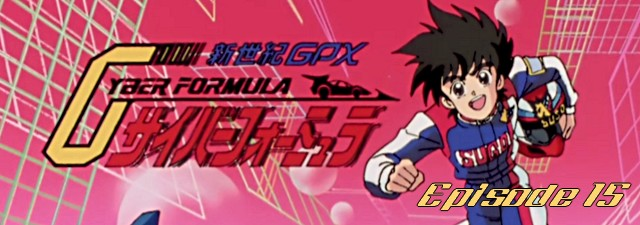
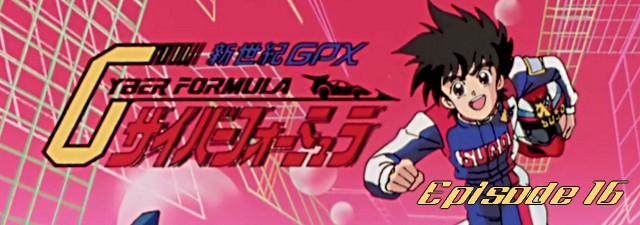
new release

Changed region(s): [[0.625, 0.7778, 1.0, 0.9644]]

diff --git a/2015-11-15.html b/2015-11-15.html
@@ -1,0 +1,100 @@
+<!DOCTYPE html>
+<html lang="fr-FR">
+	<head>
+		<title>Future GPX Cyber Formula BD 16 vostfr | Nobluesky Fansub</title>
+		<meta charset="utf-8" />
+		<link rel="Shortcut Icon" type="image/x-icon" href="favicon.ico" />
+		<link href="fonts/fonts.css" rel="stylesheet" type="text/css" />
+		<link href="style.css" rel="stylesheet" type="text/css" media="screen" />
+		<link rel="stylesheet" href="menu.css" type="text/css" />
+		<script src="jquery.js" type="text/javascript"></script>
+		<script src="background-script.js" type="text/javascript"></script>
+	</head>
+<body>
+<div class="banner">
+	<a title="Nobluesky Fansub" href="index.html"> <img class="banner" alt="Nobluesky Fansub" title="Nobluesky Fansub" src="images/banner.png"/> </a>
+</div>
+<!-- end banner -->
+<div id="menu-wrapper">
+	<div id="menu">
+		<script type="text/javascript">
+		$( '#menu' ).load( 'menu.html' );
+		</script>
+		<noscript>Activez javascript pour voir le menu!</noscript>
+	</div>
+</div>
+<!-- end #menu -->
+<div id="page-wrapper">
+<div id="sidebar-wrapper">
+	<div id="sidebar">
+		<script type="text/javascript">
+		$( '#sidebar' ).load( 'sidebar.html' );
+		</script>
+	</div>
+	<!-- end #sidebar -->
+</div>
+	<div id="article">
+		<div id="content">
+			<div class="post">
+				<h1 class="title">Future GPX Cyber Formula BD 16 vostfr</h1>
+				<p class="meta"><span class="date">15 Novembre 2015</span><span class="posted">Posté par <a href="about.html#nobluesky">Nobluesky</a></span></p>
+				<div style="clear: both;">&nbsp;</div>
+				<div class="entry">
+					<img class="post-images" src="images/2015/news17.jpg" alt="" />
+					<p>Bonsoir,</p>
+					<p>Pour vous changer les idées, voici la suite tant attendue de la course du Pérou, avec un enjeu potentiellement dramatique s'il n'est pas atteint!</p>
+					<p>Bon épisode.</p>
+					<h3>Téléchargements et streaming</h3>
+					<p class="links dl"><a href="http://jheberg.net/captcha/fgpxcf-16-vostfr-bd/" class="button-dl">Jheberg</a></p>&nbsp; | &nbsp;
+					<p class="links dl"><a href="http://rutube.ru/video/d4abf518625ff6070096157c32236dfd/" class="button-dl">Rutube</a></p>&nbsp; | &nbsp;
+					<p class="links dl"><a href="https://mega.nz/#!XcMVFABD!lKXfUW4mniOpGrDX33H02eNsnG1Ia08nIHQIHNhdrvc" class="button-dl">Mega</a></p>
+					<h3>Commentaires</h3>
+					<div id="disqus_thread"></div>
+					<script type="text/javascript">
+						/* * * CONFIGURATION VARIABLES: EDIT BEFORE PASTING INTO YOUR WEBPAGE * * */
+						var disqus_shortname = 'noblueskyfansub'; // required: replace example with your forum shortname
+
+						/* * * DON'T EDIT BELOW THIS LINE * * */
+						(function() {
+							var dsq = document.createElement('script'); dsq.type = 'text/javascript'; dsq.async = true;
+							dsq.src = '//' + disqus_shortname + '.disqus.com/embed.js';
+							(document.getElementsByTagName('head')[0] || document.getElementsByTagName('body')[0]).appendChild(dsq);
+						})();
+					</script>
+					<noscript>Activez javascript pour voir les commentaires.</noscript>
+					<a href="http://disqus.com" class="dsq-brlink">commentaires propulsés par <span class="logo-disqus">Disqus</span></a>
+				</div>
+			</div>
+			<div style="clear: both;">&nbsp;</div>
+		</div>
+		<!-- end #content -->
+		<div style="clear: both;">&nbsp;</div>
+	</div>
+</div>
+<!-- end #page -->
+<script type="text/javascript">
+$(window).scroll(function() {
+    if ($(this).scrollTop() < 1000) {
+        $("#footer").hide();
+    }
+    else {
+        $("#footer").show();
+    }
+});
+$(window).scroll(function() {
+  if ($(this).scrollTop() < 1000) {
+    $("footer").slideUp();
+      }
+  else {
+    $("footer").slideDown();
+      }
+});		
+</script>
+<div id="footer">
+	<script type="text/javascript">
+	$( '#footer' ).load( 'footer.html' );
+	</script>
+</div>
+<!-- end #footer -->
+</body>
+</html>

diff --git a/page2.html b/page2.html
@@ -31,7 +31,7 @@
 	<div class="slider-wrapper theme-default">
 		<div class="ribbon"></div>
 		<div id="slider" class="nivoSlider">
-			<a href="2015-11-08.html"><img src="images/img01.jpg" alt="" /></a><img src="images/img02.jpg" alt="" />
+			<a href="2015-11-15.html"><img src="images/img01.jpg" alt="" /></a><img src="images/img02.jpg" alt="" />
 		</div>
 	</div>
 <script type="text/javascript">
@@ -50,6 +50,18 @@
 </div>
 	<div id="feed">
 		<div id="content">
+			<div class="post">
+				<h1 class="title"><a href="2015-06-27.html">Future GPX Cyber Formula BD 11 vostfr</a></h1>
+				<p class="meta"><span class="date">27 Juin 2015</span><span class="posted">Posté par <a href="about.html#nobluesky">Nobluesky</a></span></p>
+				<p><a href="http://nobluesub.com/2015-06-27.html#disqus_thread">Commentaires</a></p>
+				<div style="clear: both;">&nbsp;</div>
+				<div class="entry">
+					<img class="post-images" src="images/2015/news12.jpg" alt="" />
+					<p>Bonjour à tous!</p>
+					<p>Voici votre épisode, tout frais pour le week-end qui s'annonce plutôt chaud, mais pas autant que...</p>
+					<p class="links"><a href="2015-06-27.html" class="button">Lire la suite</a></p>
+				</div>
+			</div>
 			<div class="post">
 				<h1 class="title"><a href="2015-06-20.html">Future GPX Cyber Formula BD 10 vostfr</a></h1>
 				<p class="meta"><span class="date">20 Juin 2015</span><span class="posted">Posté par <a href="about.html#nobluesky">Nobluesky</a></span></p>
@@ -99,19 +111,6 @@
 					<p>Ah bon il est encore là Nobluesky? Il avait dit trois mois pourtant!</p>
 					<p>Trève de plaisanterie, voici votre épisode, pour vous consoler d'attendre le n°10 depuis des lustres...</p>
 					<p class="links"><a href="2015-05-25.html" class="button">Lire la suite</a></p>
-				</div>
-			</div>
-			<div class="post">
-				<h1 class="title"><a href="2015-05-19.html">Des news! Enfin!</a></h1>
-				<p class="meta"><span class="date">19 Mai 2015</span><span class="posted">Posté par <a href="about.html#nobluesky">Nobluesky</a></span></p>
-				<p><a href="http://nobluesub.com/2015-05-19.html#disqus_thread">Commentaires</a></p>
-				<div style="clear: both;">&nbsp;</div>
-				<div class="entry">
-					<img class="post-images" src="images/2015/news7.jpg" alt="" />
-					<p>Bonsoir à tous!</p>
-					<p>S'il y a encore des gens qui me suivent avec ma rapidité légendaire ( King-du-Slowsub&copy;, classé juste avant les fansubs abandonnées xD), voici l'épisode 5 de Future GPX en bluray, a retrouver sur la <a href="future-gpx-cyber-formula.html">page de l'animé</a>.</p>
-					<p>J'ai hâte comme vous de passer le stade de l'épisode 9 pour enfin arriver au 10, mais...</p>
-					<p class="links"><a href="2015-05-19.html" class="button">Lire la suite</a></p>
 				</div>
 			</div>
 			<div style="clear: both;">&nbsp;</div>

diff --git a/index.html b/index.html
@@ -35,7 +35,7 @@
 	<div class="slider-wrapper theme-default">
 		<div class="ribbon"></div>
 		<div id="slider" class="nivoSlider">
-			<a href="2015-11-08.html"><img src="images/img01.jpg" alt="" /></a><img src="images/img02.jpg" alt="" />
+			<a href="2015-11-15.html"><img src="images/img01.jpg" alt="" /></a><img src="images/img02.jpg" alt="" />
 		</div>
 	</div>
 <script type="text/javascript">
@@ -60,6 +60,19 @@
 				<div style="clear: both;">&nbsp;</div>
 				<div class="entry">
 					<p>Bienvenue sur le site de la Nobluesky Fansub!</p>
+				</div>
+			</div>
+			<div class="post">
+				<h1 class="title"><a href="2015-11-15.html">Future GPX Cyber Formula BD 16 vostfr</a></h1>
+				<p class="meta"><span class="date">15 Novembre 2015</span><span class="posted">Posté par <a href="about.html#nobluesky">Nobluesky</a></span></p>
+				<p><a href="http://nobluesub.com/2015-11-15.html#disqus_thread">Commentaires</a></p>
+				<div style="clear: both;">&nbsp;</div>
+				<div class="entry">
+					<img class="post-images" src="images/2015/news17.jpg" alt="" />
+					<p>Bonsoir,</p>
+					<p>Pour vous changer les idées, voici la suite tant attendue de la course du Pérou, avec un enjeu potentiellement dramatique s'il n'est pas atteint!</p>
+					<p>Bon épisode.</p>
+					<p class="links"><a href="2015-11-15.html" class="button">Lire la suite</a></p>
 				</div>
 			</div>
 			<div class="post">
@@ -113,18 +126,6 @@
 					<p>Malgré quelques soucis pour l'envoi de cet épisode, le voici enfin en ligne, après plus de cinq jours à tenter de l'uploader^^</p>
 					<p>Hayato a besoin de réfléchir un peu après son échec...</p>
 					<p class="links"><a href="2015-08-17.html" class="button">Lire la suite</a></p>
-				</div>
-			</div>
-			<div class="post">
-				<h1 class="title"><a href="2015-06-27.html">Future GPX Cyber Formula BD 11 vostfr</a></h1>
-				<p class="meta"><span class="date">27 Juin 2015</span><span class="posted">Posté par <a href="about.html#nobluesky">Nobluesky</a></span></p>
-				<p><a href="http://nobluesub.com/2015-06-27.html#disqus_thread">Commentaires</a></p>
-				<div style="clear: both;">&nbsp;</div>
-				<div class="entry">
-					<img class="post-images" src="images/2015/news12.jpg" alt="" />
-					<p>Bonjour à tous!</p>
-					<p>Voici votre épisode, tout frais pour le week-end qui s'annonce plutôt chaud, mais pas autant que...</p>
-					<p class="links"><a href="2015-06-27.html" class="button">Lire la suite</a></p>
 				</div>
 			</div>
 			<div style="clear: both;">&nbsp;</div>

diff --git a/stream/futuregpxcf16.html b/stream/futuregpxcf16.html
@@ -1,0 +1,31 @@
+<!DOCTYPE html>
+<html lang="fr">
+<head>
+	<title>Streaming Nobluesub | Lecture en cours</title>
+	<link rel="Shortcut Icon" type="image/x-icon" href="favicon.ico" />
+	<meta charset="UTF-8" />
+	<link rel="stylesheet" href="style.css"/>
+	<script src="jquery.js" type="text/javascript"></script>
+</head>
+
+<body>
+<div id="feed">
+	<a title="Nobluesky stream" href="index.html"> <img id="banner" alt="Nobluesky Stream" title="Nobluesky Stream | Accueil" src="images/banner.png"/> </a>
+		<p><a href="futuregpxcf.html">Retour à la liste des épisodes</a></p>
+			<video id="player" controls alt="video">
+				<source src="http://stream.nobluesub.com:17970/share/bIhR2n-Wrj8lutrz/16.mp4" type="video/mp4">
+					<p>Désolé, votre navigateur est ancien et/ou ne supporte pas html5.</p>
+				</object>
+			</video>
+<p id="copy">Design par Nobluesky</p>
+</div>
+<!-- end feed -->
+<div id="sidebar">
+<script type="text/javascript">
+		$( '#sidebar' ).load( 'sidebar.html' );
+</script>
+<noscript>Activez javascript pour voir tout le contenu!</noscript>
+</div>
+<!-- end sidebar -->
+</body>
+</html>

diff --git a/future-gpx-cyber-formula.html b/future-gpx-cyber-formula.html
@@ -123,6 +123,11 @@
 					<p class="links dl"><a href="http://jheberg.net/captcha/fgpxcf-15-vostfr-bd/" class="button-dl">Jheberg</a></p>&nbsp; | &nbsp;
 					<p class="links dl"><a href="http://rutube.ru/video/effc092c4540d131b86ee9e924f18249/" class="button-dl">Rutube</a></p>&nbsp; | &nbsp;
 					<p class="links dl"><a href="https://mega.nz/#!uUtARAiR!wGysdWlHoQv-yqUj1XKaj_z-iBuPaBSM1Om9NDBCPcE" class="button-dl">Mega</a></p>
+					<br>
+					Episode 16 : 
+					<p class="links dl"><a href="http://jheberg.net/captcha/fgpxcf-16-vostfr-bd/" class="button-dl">Jheberg</a></p>&nbsp; | &nbsp;
+					<p class="links dl"><a href="http://rutube.ru/video/d4abf518625ff6070096157c32236dfd/" class="button-dl">Rutube</a></p>&nbsp; | &nbsp;
+					<p class="links dl"><a href="https://mega.nz/#!XcMVFABD!lKXfUW4mniOpGrDX33H02eNsnG1Ia08nIHQIHNhdrvc" class="button-dl">Mega</a></p>
 					
 					<h4>Version SD (640x480) non remasterisée (abandonnée)</h4>
 					Episode 01 : 

diff --git a/archives.html b/archives.html
@@ -45,6 +45,7 @@
 					<div>
 					 <!-- here comes spoiler content --> 
 					<div style="clear: both;">&nbsp;</div>
+					<p><a href="2015-05-19.html" target="_blank" >Des news! Enfin!</a></p>
 					<p><a href="2015-02-04.html" target="_blank" >Yoru no Yatterman licencié!</a></p>
 					<p><a href="2015-01-25.html" target="_blank" >Yoru no Yatterman 02 vostfr</a></p>
 					<p><a href="2015-01-17.html" target="_blank" >Des nouvelles de Future GPX Cyber Formula!</a></p>

diff --git a/sidebar.html b/sidebar.html
@@ -23,9 +23,9 @@
 		<li>
 			<h2>Avancements</h2>
 			<ul>
-				<li>Future GPX Cyber Formula BD 16 : 80%
+				<li>Future GPX Cyber Formula BD 16 : 100%
 					<div class="progress-bar blue stripes">
-					<span style="width: 80%"></span>
+					<span style="width: 100%"></span>
 					</div>
 				</li>
 			</ul>

diff --git a/stream/futuregpxcf.html b/stream/futuregpxcf.html
@@ -27,6 +27,7 @@
 	<p><a href="futuregpxcf13.html">Episode 13</a></p>
 	<p><a href="futuregpxcf14.html">Episode 14</a></p>
 	<p><a href="futuregpxcf15.html">Episode 15</a></p>
+	<p><a href="futuregpxcf16.html">Episode 16</a></p>
 	<br>
 	<br>
 <p id="copy">Design par Nobluesky</p>
